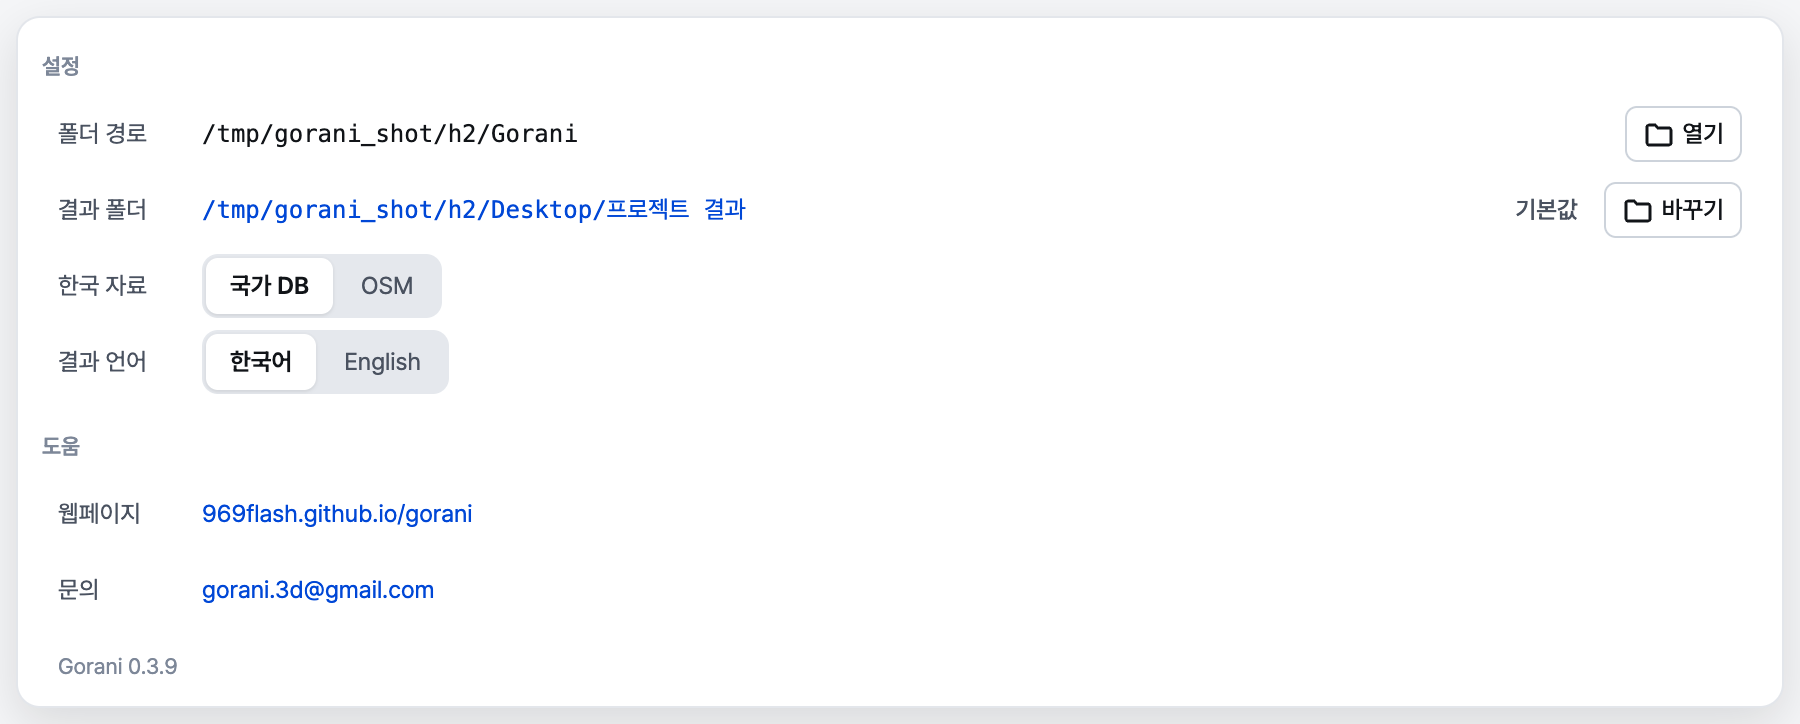
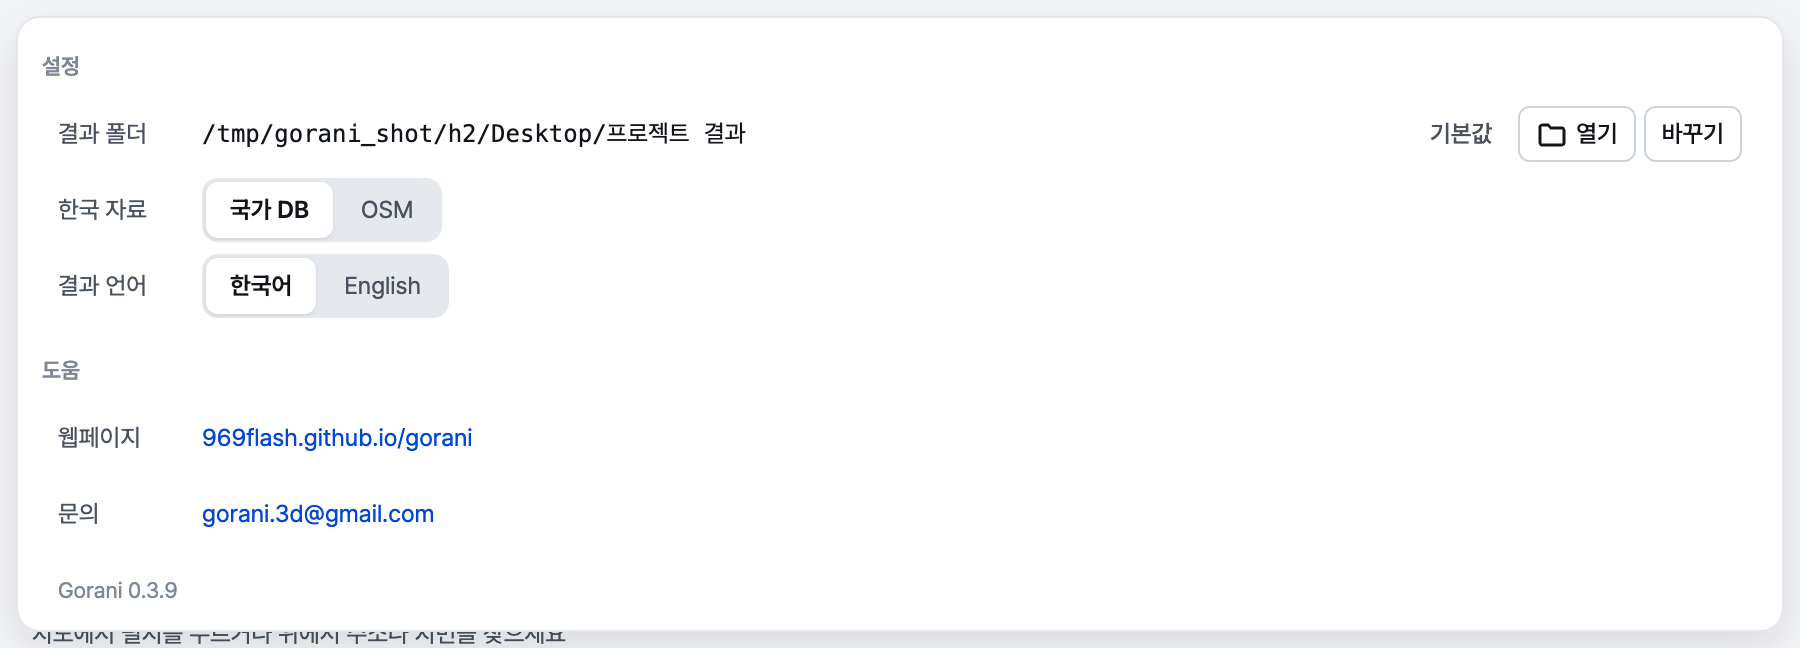
메뉴 폴더 줄을 하나로 합친다
'폴더 경로'(HOME_DIR)와 '결과 폴더' 두 줄을 '결과 폴더' 한 줄로 합쳤다.
경로 · [기본값](고른 폴더일 때만) · [열기] · [바꾸기]. 웹판은 [열기]만.
아직 만들지 않은 기본 결과 폴더도 [열기]가 만들어 연다. 안 쓰게 된 번역 둘을 지웠다.

diff --git a/scripts/site_ui.html b/scripts/site_ui.html
@@ -143,7 +143,6 @@ html:lang(zh-Hans) body { font-family: -apple-system, "PingFang SC", "Microsoft 
 .mrow:hover { background: var(--hover); }
 .mrow .k { color: var(--ink-2); }
 .mrow .v { color: var(--ink); overflow: hidden; text-overflow: ellipsis; white-space: nowrap; }
-.mrow .v .link { display: block; max-width: 100%; overflow: hidden; text-overflow: ellipsis; text-align: left; }   /* 긴 결과 폴더 경로 */
 .prev2d { display: flex; align-items: center; gap: 8px; min-height: 36px; padding: 0 0 0 8px; color: var(--ink); }
 .prev2d > .ico { color: var(--ink-3); flex: none; }
 .prev2d > span { flex: 1; min-width: 0; overflow: hidden; text-overflow: ellipsis; white-space: nowrap; }
@@ -1969,7 +1968,7 @@ function closeNotice(id) {
   renderNoticeBands(); renderMenu(); toast(tr("닫은 공지는 메뉴에서 다시 볼 수 있습니다"));
 }
 // ── 더보기 메뉴 — 최근 대상지 · 설정 · 안내 · 공지 ──
-// 메뉴에 남기는 것만(2026-10-19 QA): 최근 대상지 · 폴더 경로 · 한국 자료 · 사용 통계(동의제 호스트) · 고라니 웹페이지 · 버전.
+// 메뉴에 남기는 것만(2026-10-19 QA): 최근 대상지 · 결과 폴더(2026-11-20 — 폴더 경로 줄을 합쳤다) · 한국 자료 · 사용 통계(동의제 호스트) · 고라니 웹페이지 · 버전.
 // 뺀 것 — VWorld 키(.env, 개발자용 — install.md), 다시 확인(팩을 저절로 받는다), 로컬 install.md(웹페이지로)
 function renderMenu() {
   var init = state.init, el = $("menu"); if (!init || !state.menuOpen) return;
@@ -1983,10 +1982,10 @@ function renderMenu() {
     }).join("") + "</div>" : "");
   el.innerHTML = "<h3>" + tr("설정") + "</h3>" +   // 최근 대상지는 트레이에만(2026-10-30 — 메뉴·트레이·검색 ↓ 세 군데였다)
     '<div class="mlist">' +
-      row(tr("폴더 경로"), '<span class="mono">' + esc(p.root || "") + "</span>", '<button type="button" class="btn sm" data-act="open" data-path="' + esc(p.root || "data") + '">' + ico("folder") + tr("열기") + "</button>", tr("{0} (결과 result, 지역 데이터 data)", p.root || "")) +
-      (HOST.id === "web" ? "" : row(tr("결과 폴더"), '<button type="button" class="link mono" data-act="open" data-path="' + esc(p.result || "") + '" title="' + esc(p.result || "") + '">' + esc(p.result || "") + "</button>",
-        '<span style="display:flex;gap:4px">' + (p.result && p.result !== p.result_default ? '<button type="button" class="btn sm ghost" data-act="result_root" data-reset="1"' + (lock ? " disabled" : "") + ">" + tr("기본값") + "</button>" : "") +
-        '<button type="button" class="btn sm" data-act="result_root"' + (lock ? " disabled" : "") + ">" + ico("folder") + tr("바꾸기") + "</button></span>")) +
+      row(tr("결과 폴더"), '<span class="mono">' + esc(p.result || "") + "</span>", '<span style="display:flex;gap:4px">' +   // 결과 폴더 한 줄 — 열기·바꾸기(2026-11-20)
+        (HOST.id !== "web" && p.result && p.result !== p.result_default ? '<button type="button" class="btn sm ghost" data-act="result_root" data-reset="1"' + (lock ? " disabled" : "") + ">" + tr("기본값") + "</button>" : "") +
+        '<button type="button" class="btn sm" data-act="open" data-path="' + esc(p.result || "") + '">' + ico("folder") + tr("열기") + "</button>" +
+        (HOST.id === "web" ? "" : '<button type="button" class="btn sm" data-act="result_root"' + (lock ? " disabled" : "") + ">" + tr("바꾸기") + "</button>") + "</span>", p.result || "") +
       row(tr("한국 자료"), '<div class="seg" role="group" aria-label="' + tr("한국 자료") + '">' +
           segBtn("force_osm", ' data-v="0" title="' + tr("필지, 건축물대장, 용도지역") + '"' + (lock ? " disabled" : ""), !forceOsm(), tr("국가 DB")) +
           segBtn("force_osm", ' data-v="1" title="' + tr("한국 안에서도 OpenStreetMap으로 만듭니다(필지, 용도지역 없음)") + '"' + (lock ? " disabled" : ""), forceOsm(), "OSM") + "</div>", "") +

diff --git a/scripts/cmd_site.py b/scripts/cmd_site.py
@@ -471,7 +471,7 @@ def resolve_open_path(path, root=None):
     full = path if os.path.isabs(path) else os.path.join(root, path)
     if not os.path.exists(full) and not os.path.isabs(path) and path != ".env" and os.path.exists(os.path.join(ROOT_DIR, path)):
         full = os.path.join(ROOT_DIR, path)
-    if os.path.basename(full) == "data":
+    if os.path.basename(full) in ("data", "result"):   # 아직 안 만든 data·기본 결과 폴더도 [열기]가 연다
         os.makedirs(full, exist_ok=True)
     if os.path.basename(full) == ".env" and not os.path.exists(full):
         os.makedirs(os.path.dirname(full), exist_ok=True)

diff --git a/docs/panel_ui.md b/docs/panel_ui.md
@@ -79,7 +79,7 @@ window.__flush = function () { var m = JSON.stringify(window.__outbox); window._
 | `save_prefs` | `options` | — | `prefs.json`에 `options`만 덮어쓴다(`recent`는 `generate` 성공 시 Python이 갱신) |
 | `open_result` | `dir` | `result_opened` | 최근 결과 줄을 누르면 — `context_builder.get_result_state`가 결과 폴더의 `context.json`으로 결과 화면을 다시 채운다(3D 카드에는 [폴더 열기]만 — [Rhino에 불러오기] 버튼은 없다, 2026-11-07). `result_opened{dir, lot_name, lot_key, label, built_at, context{path, buildings, imported}, options, target, korea, target_lnglat{center, ring}, made2d_list[{dir, made2d|null, made_at}]}` — `imported`는 Rhino 8이면 그 대상지(UDT_LOT_KEY) 객체가 지금 문서에 있는지(`context_baker.has_lot`), 아니면 false. `made2d_list`는 2D 폴더마다 `made_2d.json`(make_2d가 패널에 보낸 결과 — 도면 목록·썸네일·.ai·조서)이 있으면 그것을 실어 패널이 마지막 2D를 만든 직후와 같은 카드로 그린다(2D를 여러 번 만들었으면 카드 제목 옆 선택 `#pick2d`로 바꿔 본다 — `made_at`·스타일 이름이 선택 글. 카드가 없는 옛 2D만 있으면 폴더 한 줄). `made_2d.json`의 절대 경로(2D 폴더·도면·.ai·조서)는 읽을 때 지금 위치로 바꾼다(`context_builder._rebase_paths`) — 결과 폴더·2D 폴더 이름을 바꾸거나 옮겨도 카드의 링크가 산다. 2D 폴더는 `2D_*`뿐 아니라 `made_2d.json`이 든 폴더도 찾고, 순서는 이름이 아니라 폴더 수정 시각이다 — `target_lnglat`은 결과의 `crs`(EPSG:5186 또는 지역 TM, 원점 0.01°)로 되돌린 경위도라 [← 지도로]가 필지·구역·위치를 지도에 되살린다(2026-11-07) |
 | `hide_result` | `dir` | 없음 (`error{context:"init"}`) | 최근 결과 줄의 x — `prefs.json` `hidden_results`에 넣어 목록에서만 뺀다(결과 폴더는 그대로). JS가 `init.results`에서 먼저 빼고 트레이를 다시 그린다 |
-| `set_result_root` | `pick:true` 또는 `path`(빈 값 = 기본) | `init_state` (`error{context:"open"}`) | 더보기 메뉴 '결과 폴더'의 [바꾸기]·[기본값](2026-11-20). `pick`이면 폴더 고르기 창(Rhino 8 = Eto `SelectFolderDialog`, 그 밖의 호스트 = OS 창 `cmd_site.get_folder_from_os` — 맥 osascript, 윈도 PowerShell)을 띄우고 취소면 응답 없음. 고른 폴더를 `site_prefs.save_result_root`가 `prefs.json` `result_root`에 남긴다(쓸 수 없는 폴더면 ValueError). `generate`는 이 폴더 아래에 결과 폴더를 만들고, `init_state.paths.result`·최근 결과도 이 폴더를 본다. 그 폴더가 사라지면(빼 둔 외장 디스크) 기본 `HOME_DIR/result`로 돌아간다. 웹판은 메뉴 줄이 없다 |
+| `set_result_root` | `pick:true` 또는 `path`(빈 값 = 기본) | `init_state` (`error{context:"open"}`) | 더보기 메뉴 '결과 폴더'의 [바꾸기]·[기본값](2026-11-20). `pick`이면 폴더 고르기 창(Rhino 8 = Eto `SelectFolderDialog`, 그 밖의 호스트 = OS 창 `cmd_site.get_folder_from_os` — 맥 osascript, 윈도 PowerShell)을 띄우고 취소면 응답 없음. 고른 폴더를 `site_prefs.save_result_root`가 `prefs.json` `result_root`에 남긴다(쓸 수 없는 폴더면 ValueError). `generate`는 이 폴더 아래에 결과 폴더를 만들고, `init_state.paths.result`·최근 결과도 이 폴더를 본다. 그 폴더가 사라지면(빼 둔 외장 디스크) 기본 `HOME_DIR/result`로 돌아간다. 메뉴 줄 하나(경로 · [기본값] · [열기] · [바꾸기]) — 예전 '폴더 경로'(HOME_DIR) 줄을 합쳤다. 웹판은 [바꾸기]·[기본값]이 없다 |
 | `style_preview` | `dir`, `sheet_id`(0~15), `style`(스타일 dict), `seq` | `style_preview`(같은 `seq`) / `error{context:"style"}` | ③ 2D 카드 다이어그램 타일 [편집]의 스타일 화면(만들기 전). `context_builder.preview_sheet` — 한 장을 스타일로 다시 그린 SVG 문자열(파일 안 씀). 시트 데이터는 컨트롤러 `_keep`(이번 세션 생성 결과, 지형 삼각형 포함). 2D를 아직 안 만들었으면 3D를 만든 Prepared를 그대로 써서 다시 조회하지 않는다(`get_sheet_data(quick=True)` — 자료는 3D 범위까지. 다시 prepare하면 Global은 OSM·지형 타일을 또 받아 55 s 걸렸다, 2026-10-19). `_keep`이 다른 결과면 `context.json`으로 한 번 prepare(지형 시트는 비어 나온다). SVG id·`url(#…)`은 `pv_` 접두어(패널 `#map`과 겹치지 않게). JS 250 ms 디바운스, 늦은 `seq`는 버린다 |
 | `apply_style` | `dir`, `style` | `busy{on}` → `style_applied` → `busy{off}` | `context_builder.apply_style` — 결과 폴더의 시트 전부 + 이미 쓴 `basemap_<축척>.ai`를 다시 쓰고 `context.json.options.style`을 바꾼다. 지형 삼각형이 없으면 지형 시트 파일은 그대로(`kept`). JS는 성공하면 `options.style`을 `save_prefs`. **2026-10-19부터 패널은 보내지 않는다** — 스타일은 만들기 전에 정하고 [적용]은 `options.style`만 바꾼다 |
 | `save_style` | `name`, `style` | `styles` / `error{context:"style"}` | `site_prefs.save_style` → `HOME_DIR/styles/<이름>.json`(경로 문자 제거, 같은 이름 덮어씀). 사무소 표준을 파일로 나눠 쓴다 |

diff --git a/docs/ui_spec.md b/docs/ui_spec.md
@@ -185,7 +185,7 @@
 
 ## 6. 더보기 메뉴
 
-헤더 로고(Gorani)를 누르면 지도로 간다([← 지도로]와 같다, 만드는 중에는 안 감). 설정(폴더 경로 [열기], 한국 자료 회색 토글 [국가 DB][OSM], 결과 언어 [한국어][English](폴더·파일 이름, 첫 값은 시스템 언어 — panel_ui.md '결과물 언어'), 사용 통계 — Blender·SketchUp만) · 도움(고라니 웹페이지 — `open_url{key:"website"}`, 문의 메일 gorani.3d@gmail.com — `open_url{key:"contact"}`, mailto) · 버전.
+헤더 로고(Gorani)를 누르면 지도로 간다([← 지도로]와 같다, 만드는 중에는 안 감). 설정(결과 폴더 [열기]·[바꾸기], 한국 자료 회색 토글 [국가 DB][OSM], 결과 언어 [한국어][English](폴더·파일 이름, 첫 값은 시스템 언어 — panel_ui.md '결과물 언어'), 사용 통계 — Blender·SketchUp만) · 도움(고라니 웹페이지 — `open_url{key:"website"}`, 문의 메일 gorani.3d@gmail.com — `open_url{key:"contact"}`, mailto) · 버전.
 뺀 것(2026-10-19): VWorld 키(.env, 개발자용 — `docs/install.md`), 다시 확인(팩을 저절로 받는다), 로컬 install.md, 자료 기준일 표.
 나중에 넣을 것: 받은 지역 데이터(목록·용량·지우기).
 
